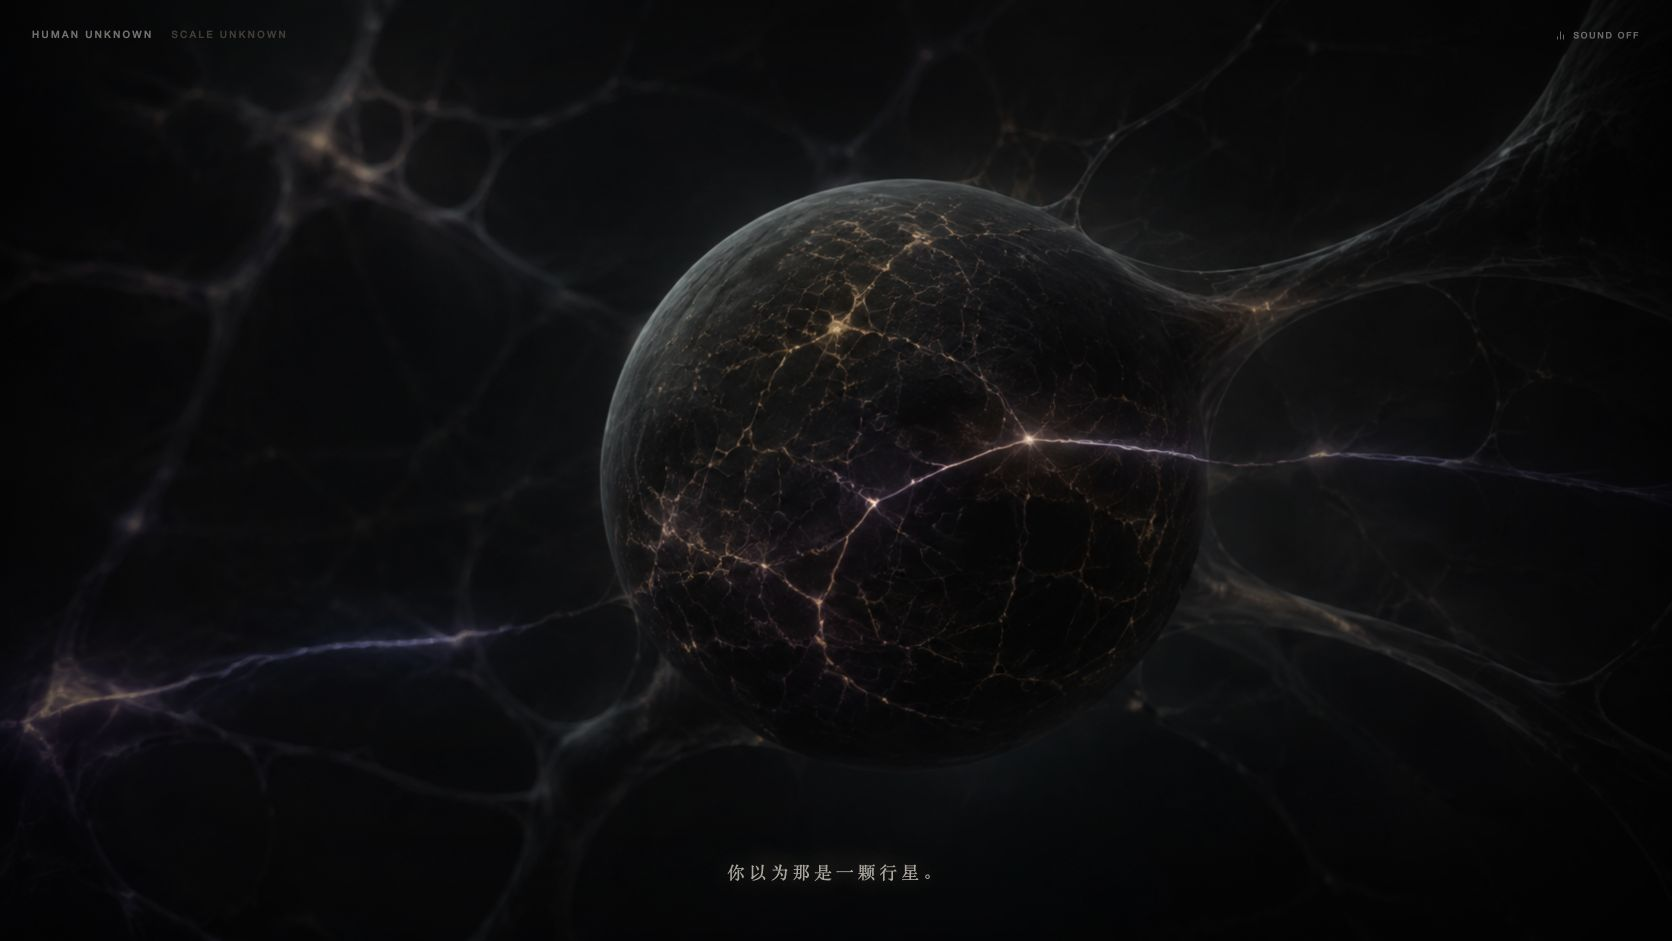
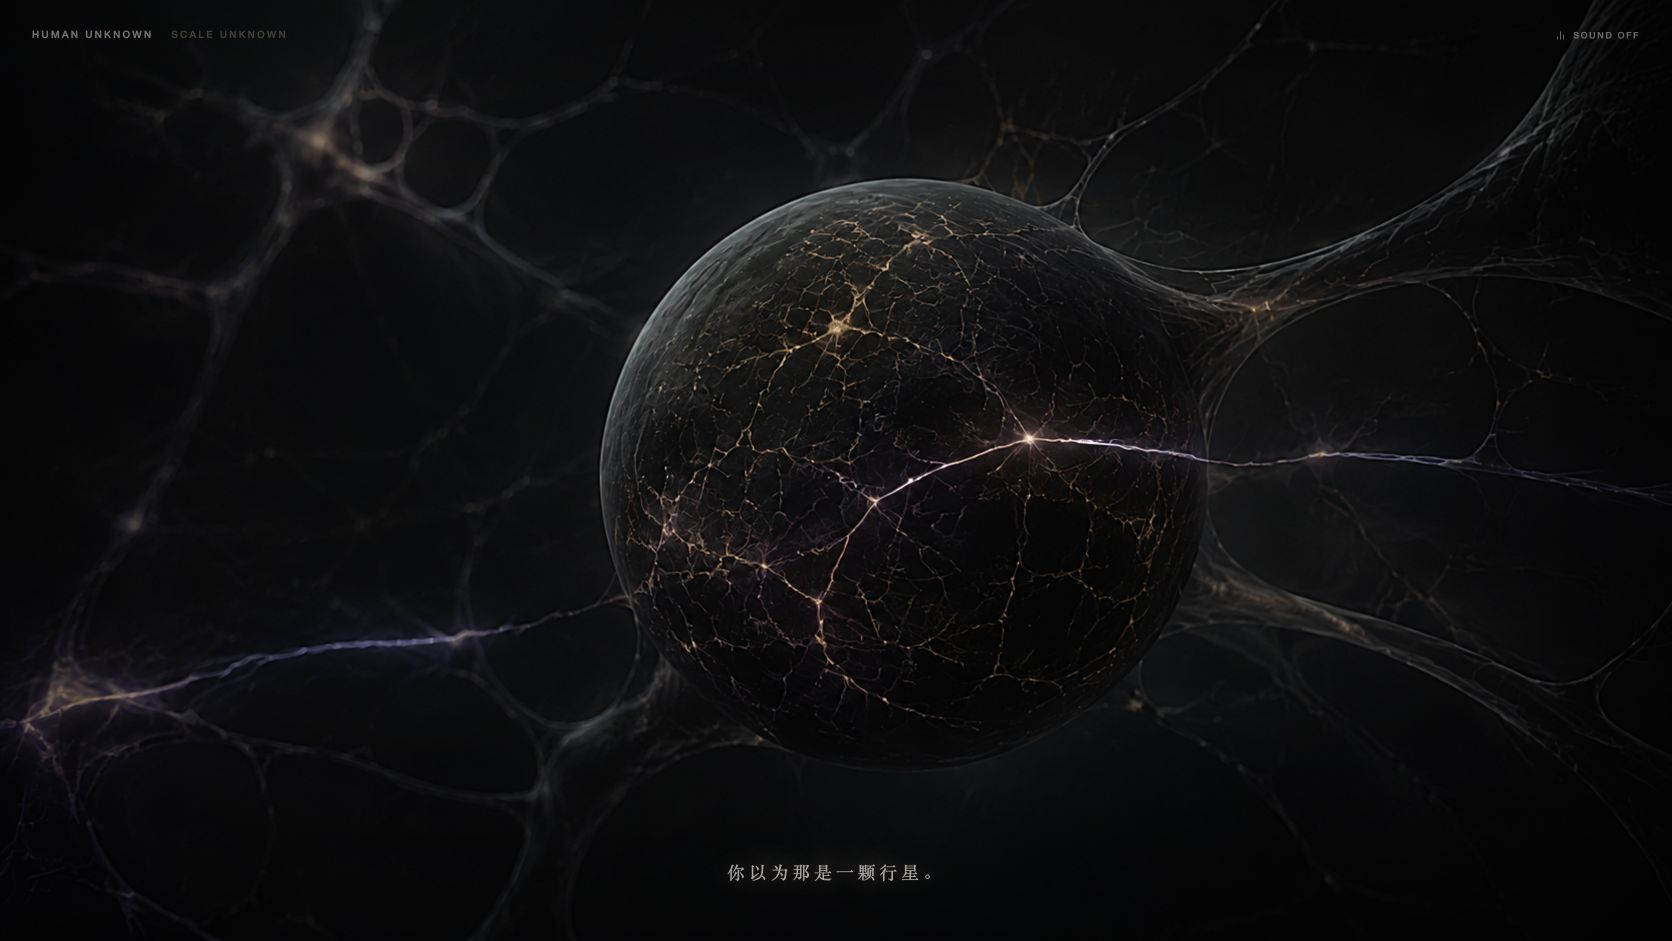
fix: sharpen planet-neuron visual layers

diff --git a/02-代码仓库/planet-neuron/planet-neuron-renderer.js b/02-代码仓库/planet-neuron/planet-neuron-renderer.js
@@ -82,26 +82,26 @@
       vec2 livingWarp = vec2(
         sin(sourceUv.y * 21.0 + uTime * 0.17),
         cos(sourceUv.x * 17.0 - uTime * 0.12)
-      ) * depth * slowField * 0.00042;
+      ) * depth * slowField * 0.00062;
       vec2 pointerWarp = -normalize(pointerDelta + vec2(0.00001)) * pointerField * (0.0018 + uDwell * 0.0018);
       vec2 warpedUv = clamp(sourceUv + livingWarp + pointerWarp, 0.0, 1.0);
 
       vec3 color = texture(uSource, warpedUv).rgb * mix(0.78, 0.91, uReveal);
       vec4 planet = texture(uPlanet, warpedUv);
       vec4 surface = texture(uSurface, warpedUv + livingWarp * 1.8);
-      vec4 outer = texture(uOuter, sourceUv + vec2(slowField, -slowField) * 0.00022);
+      vec4 outer = texture(uOuter, sourceUv + vec2(slowField, -slowField) * 0.00032);
 
       float flowA = pulseBand(sourceUv.x * 1.9 + sourceUv.y * 0.61 - uTime * 0.030 + sin(sourceUv.y * 18.0) * 0.045, 0.5, 0.032);
       float flowB = pulseBand(sourceUv.y * 1.7 - sourceUv.x * 0.38 - uTime * 0.019 + sin(sourceUv.x * 14.0) * 0.038, 0.5, 0.026);
-      float idleSignal = max(flowA * 0.64, flowB * 0.44) * activity * planetMask;
+      float idleSignal = max(flowA * 0.72, flowB * 0.52) * activity * planetMask;
 
       float outerFlow = pulseBand(sourceUv.x * 1.14 - sourceUv.y * 0.35 - uTime * 0.010, 0.5, 0.018);
-      float outerLife = outer.a * (0.035 + outerFlow * 0.18 + uReveal * 0.07);
+      float outerLife = outer.a * (0.045 + outerFlow * 0.25 + uReveal * 0.09);
       color += outer.rgb * outerLife * 0.68;
 
-      float localGather = pointerField * activity * (0.45 + uDwell * 0.92);
-      color += surface.rgb * surface.a * (idleSignal * 1.34 + localGather * 1.36);
-      color += planet.rgb * planet.a * pointerField * 0.045;
+      float localGather = pointerField * activity * (0.50 + uDwell * 1.08);
+      color += surface.rgb * surface.a * (idleSignal * 1.48 + localGather * 1.62);
+      color += planet.rgb * planet.a * pointerField * 0.030;
 
       float signalGlow = 0.0;
       if (uSignal >= 0.0) {
@@ -109,9 +109,9 @@
         signalDelta.x *= uSourceAspect;
         float radialDistance = length(signalDelta);
         float radialFront = uSignal * 0.27;
-        float surfaceFront = exp(-pow((radialDistance - radialFront) / 0.012, 2.0));
+        float surfaceFront = exp(-pow((radialDistance - radialFront) / 0.010, 2.0));
         surfaceFront *= activity * planetMask * (1.0 - smoothstep(0.0, 0.82, uSignal));
-        color += surface.rgb * surface.a * surfaceFront * 2.4;
+        color += surface.rgb * surface.a * surfaceFront * 2.8;
 
         vec2 p0 = vec2(0.6178, 0.5271);
         vec2 p1 = vec2(0.7117, 0.5027);
@@ -129,9 +129,9 @@
         float outgoing = clamp((uSignal - 0.28) / 0.72, 0.0, 1.0);
         float headWindow = 1.0 - smoothstep(0.0, 0.011, abs(pathPosition - outgoing));
         float tailWindow = smoothstep(outgoing - 0.22, outgoing - 0.06, pathPosition) * (1.0 - smoothstep(outgoing, outgoing + 0.018, pathPosition));
-        float lineCore = 1.0 - smoothstep(0.0010, 0.0048, distanceToPath);
+        float lineCore = 1.0 - smoothstep(0.0008, 0.0052, distanceToPath);
         signalGlow = lineCore * max(headWindow, tailWindow * 0.54);
-        color += vec3(0.91, 0.72, 1.0) * signalGlow * 1.24;
+        color += vec3(0.91, 0.72, 1.0) * signalGlow * 1.55;
       }
 
       float eventLight = 0.0;
@@ -146,12 +146,12 @@
           if (kind < 1.5) {
             float bloom = sin(age * 3.14159265) * exp(-eventDistance * eventDistance * 820.0);
             float ring = (1.0 - smoothstep(0.002, 0.012, abs(eventDistance - age * 0.075))) * (1.0 - age);
-            eventLight += (bloom * 0.82 + ring * 0.32) * (0.12 + activity * 0.88);
+            eventLight += (bloom * 1.18 + ring * 0.44) * (0.03 + activity * 0.97);
           } else {
             float collapse = (1.0 - smoothstep(0.002, 0.012, abs(eventDistance - (1.0 - age) * 0.055))) * (1.0 - age);
             float scar = exp(-eventDistance * eventDistance * 1300.0) * smoothstep(0.22, 0.5, age) * (1.0 - smoothstep(0.68, 1.0, age));
-            eventLight += collapse * 0.26 * (0.08 + activity * 0.92);
-            eventDark += scar * 0.64 * activity;
+            eventLight += collapse * 0.34 * (0.03 + activity * 0.97);
+            eventDark += scar * 0.78 * activity;
           }
         }
       }
@@ -161,7 +161,7 @@
 
       float triggerCompression = uDwell > 0.82 ? smoothstep(0.82, 1.0, uDwell) * exp(-dot(pointerDelta, pointerDelta) * 720.0) : 0.0;
       color *= 1.0 - triggerCompression * 0.32;
-      color += vec3(0.82, 0.61, 1.0) * pointerField * (0.018 + uDwell * 0.045);
+      color += vec3(0.82, 0.61, 1.0) * pointerField * (0.012 + uDwell * 0.024);
 
       float vignette = smoothstep(1.05, 0.2, length((vUv - 0.5) * vec2(1.05, 0.92)));
       color *= mix(0.7, 1.0, vignette);
@@ -202,8 +202,8 @@
       ]);
 
       const files = [
-        "source.png", "planet-layer.png", "surface-network-layer.png", "outer-fibers-layer.png",
-        "planet-mask.png", "activity-map.png", "depth-map.png",
+        "source-enhanced@2x.png", "planet-layer@2x.png", "surface-network-layer@2x.png", "outer-fibers-layer@2x.png",
+        "planet-mask@2x.png", "activity-map@2x.png", "depth-map@2x.png",
       ];
       const images = await Promise.all(files.map((file) => this.loadImage(`${assetRoot}/${file}`)));
       this.textures = images.map((image) => this.createTexture(image));

diff --git a/02-代码仓库/planet-neuron/design-qa.md b/02-代码仓库/planet-neuron/design-qa.md
@@ -2,13 +2,16 @@
 
 - Source visual truth: `../../00-项目参考材料/尺度世界-行星神经元/行星其实是神经元-概念图-v1.png`
 - Implementation URL: `http://127.0.0.1:4183/planet-neuron/`
-- Implementation screenshots: `qa/implementation-initial.png`, `qa/implementation-hover.png`, `qa/implementation-revealed.png`
-- Layer evidence: `qa/layer-contact-sheet.jpg`
+- Implementation screenshots: `qa/implementation-initial.png`, `qa/implementation-hover.png`, `qa/implementation-signal.png`, `qa/implementation-revealed.png`
+- Interaction sequence: `qa/interaction-contact-sheet.jpg`
+- Layer evidence: `qa/layer-contact-sheet-v2.jpg`
+- Enhancement evidence: `qa/enhancement-comparison.jpg`
 - Combined comparison: `qa/source-vs-revealed.png`
 - Viewport: 1672 × 941 CSS px
 - Source pixels: 1672 × 941
+- Runtime master and cutout pixels: 3344 × 1882
 - Implementation pixels: 1672 × 941 at device scale factor 1
-- Density normalization: none required
+- Density normalization: 2× runtime texture for the 1.66× opening crop
 - States checked: autonomous initial planet crop, mouse sensing/dwell, signal-triggered camera retreat, stable revealed state, sound off/on
 
 ## Full-view comparison evidence
@@ -17,14 +20,14 @@ The revealed view restores the supplied concept image's full composition: main s
 
 ## Focused-region comparison
 
-`qa/implementation-hover.png` was used as the focused inspection of the sphere surface. The response follows the source network layer without hard circular clipping, false transparency, rectangular raster boundaries, or additional particle decoration. `qa/layer-contact-sheet.jpg` confirms the sphere, surface network, outer fibers, activity map, and depth map were derived from the source rather than redrawn.
+`qa/implementation-hover.png` was used as the focused inspection of the sphere surface. The response follows the source network layer without hard circular clipping, false transparency, rectangular raster boundaries, or additional particle decoration. `qa/layer-contact-sheet-v2.jpg` checks every extracted RGBA layer over black, white, and checkerboard backgrounds; no opaque plate, rectangular boundary, or colored extraction fringe remains.
 
 ## Required fidelity surfaces
 
 - **Fonts and typography:** The source has no typography. Added HUMAN UNKNOWN identity, sound control, prompt, and reveal line are intentionally small and low contrast. They remain outside the sphere's active center and do not change the image hierarchy.
 - **Spacing and layout rhythm:** The initial crop makes the sphere dominant; the revealed state returns to the original full-frame proportions at 1672 × 941. UI remains within 24–35 px edge margins.
 - **Colors and visual tokens:** Near-black, charcoal, muted amber, and faint violet are sampled from the source. Interactive energy uses the source's existing warm-violet signal color instead of a new accent system.
[2 lines of base64/hex data omitted]
 - **Copy and content:** Copy is limited to `靠近。停留片刻。` and `你以为那是一颗行星。`. It does not explain the neuron interpretation in advance.
 
 ## Comparison history
@@ -47,6 +50,18 @@ The revealed view restores the supplied concept image's full composition: main s
 - **Fix:** Reduced the unmasked pointer contribution by roughly 70%; kept the network-specific emissive response.
 - **Post-fix evidence:** `qa/implementation-hover.png` shows brighter connected lines without a dominant circular glow.
 
+### Iteration 4
+
+- **P1 finding:** The supplied 1672 × 941 raster was being enlarged by the 1.66× opening crop, so the surface could soften on a full desktop viewport.
+- **Fix:** Ran a restrained detail enhancement, fused only its high-frequency component into the supplied image, upscaled the preserved composition to a 3344 × 1882 runtime master, and re-extracted the planet, surface network, outer fibers, activity, depth, and edge masks at the same size. The generated full-frame variant was not used directly because it changed dark background fibers.
+- **Post-fix evidence:** `qa/enhancement-comparison.jpg` preserves the source layout while showing cleaner cracks and fibers; `qa/implementation-initial.png` shows the 2× master at the exact 1672 × 941 browser viewport; `qa/layer-contact-sheet-v2.jpg` confirms clean transparency.
+
+### Iteration 5
+
+- **P2 finding:** Higher detail made the previous motion amplitudes feel too restrained.
+- **Fix:** Increased only source-masked network gathering, conduction brightness, fiber drift, burst light, and annihilation depth. Diffuse pointer glow was reduced further, so the clearer response remains attached to existing structures.
+- **Post-fix evidence:** `qa/interaction-contact-sheet.jpg` shows distinct idle, gather, transmission, and scale-reveal states without introducing a new visual layer.
+
 ### Final pass
 
 - No actionable P0, P1, or P2 differences remain.
@@ -55,6 +70,7 @@ The revealed view restores the supplied concept image's full composition: main s
 ## Browser verification
 
 - Loaded and rendered at 1672 × 941 CSS px.
+- Verified all seven 3344 × 1882 runtime textures return HTTP 200 and the WebGL canvas matches the viewport exactly.
 - Verified autonomous surface and fiber activity before user input.
 - Verified mouse entry, network response, dwell accumulation, one main transmission, continuous camera retreat, and revealed state.
 - Verified the revealed state remains stable for at least five seconds and does not retrigger merely because the pointer stayed in place.
